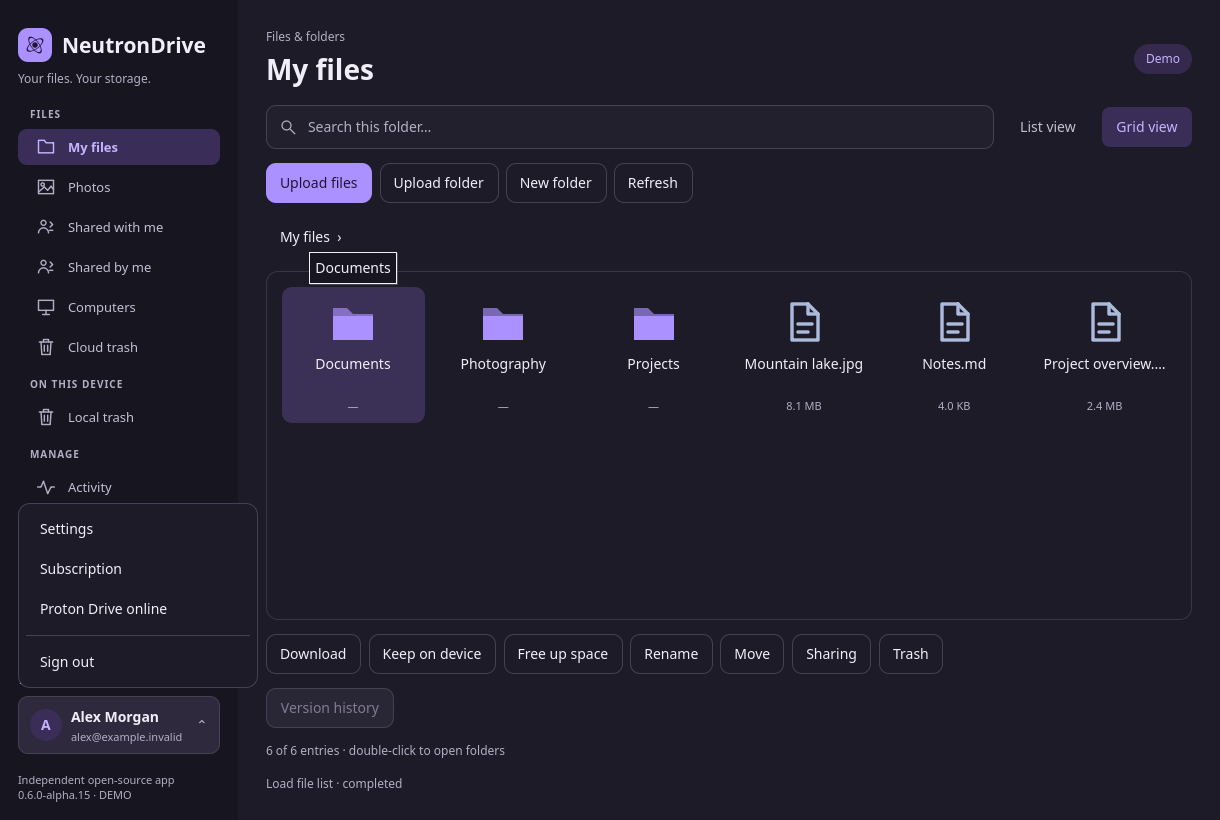
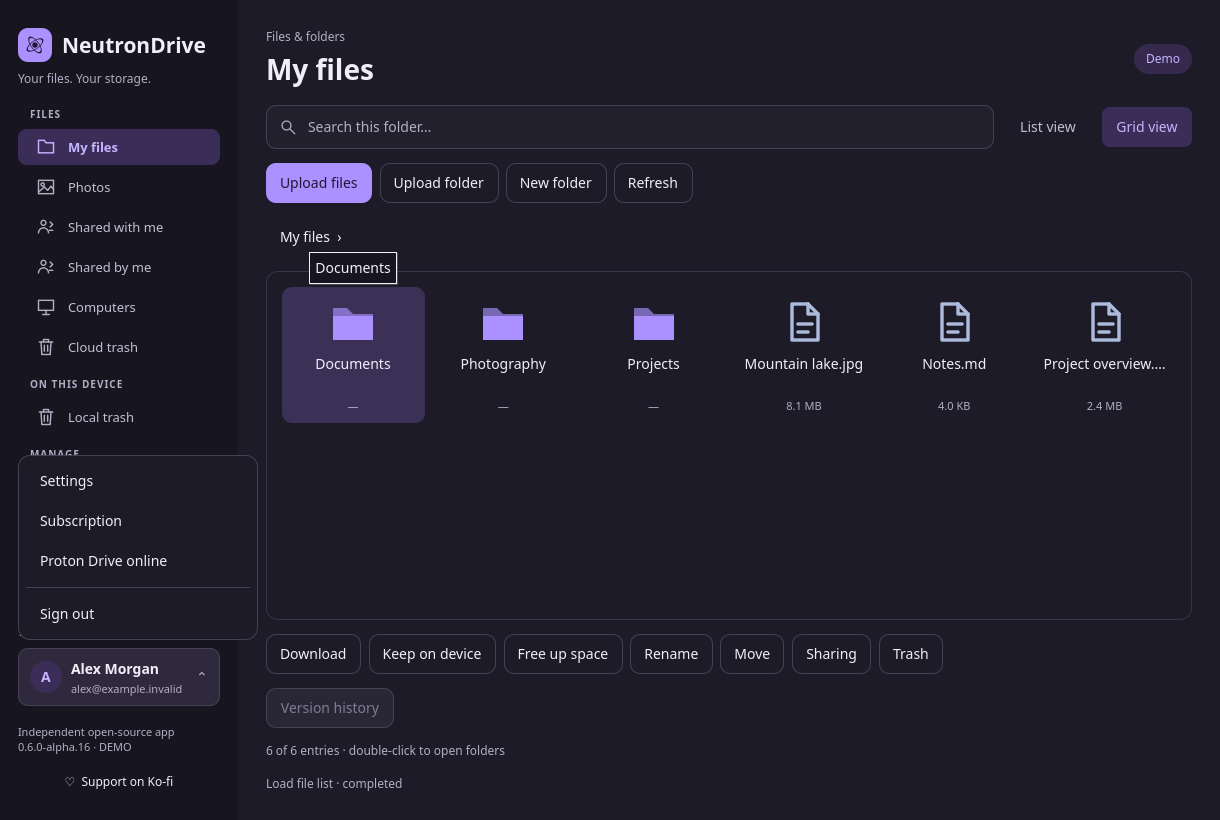
Pin alpha16 artifacts and refresh English release previews [skip ci]

Changed region(s): [[0.0, 0.7317, 0.1869, 0.9756], [0.0311, 0.5793, 0.1246, 0.7012]]

diff --git a/docs/TAKEOUT-IMPORT.md b/docs/TAKEOUT-IMPORT.md
@@ -1,0 +1,52 @@
+# Import Google Photos from Takeout
+
+NeutronDrive alpha16 can upload photos and videos from an **extracted Google
+Takeout export** into Proton Photos. It keeps original media bytes unchanged and
+uses matching Google JSON sidecars for capture time and location when available.
+
+## Prepare the export
+
+1. Export Google Photos using Google Takeout.
+2. Download **every archive part**. Extract ZIP/TGZ files yourself, combining their
+   folders into one export folder. Keep the JSON sidecars beside the media files.
+3. Keep the original export until you have checked the imported photos in Proton.
+   NeutronDrive does not delete source files.
+
+NeutronDrive does not extract archives. Symbolic links and special files are
+ignored. The scanner accepts common photo/video extensions; actual decoding,
+preview and upload support also depend on the Proton SDK.
+
+## Review and import
+
+1. Sign in to the intended Proton account.
+2. Open **Photos → Google Takeout import** and choose the extracted export folder.
+3. Review the media/video count, duplicate count, ignored files and metadata
+   warnings. Nothing is uploaded before you confirm.
+4. Confirm to upload into **Proton Photos**. Keep NeutronDrive running; closing to
+   the tray is fine. Refresh Photos afterward to see new uploads.
+
+The scanner reads the source files to calculate hashes, so scanning a large
+export can take time. Identical content within the export is grouped. Existing
+Proton Photos are checked by name/content through the SDK before upload; this is
+not a global duplicate finder for differently named copies.
+
+## Metadata and interruptions
+
+Exact JSON sidecar names are preferred, including `.supplemental-metadata.json`.
+A unique title match can associate truncated sidecar filenames. Missing or
+ambiguous JSON metadata falls back to the SDK's embedded metadata handling and
+is reported as a warning. Valid capture dates and GPS coordinates are imported;
+albums, comments, descriptions and edited/original relationships are not rebuilt.
+
+You can cancel the import. If a file fails, the batch stops and reports uploaded,
+skipped, failed and remaining counts. A changed source file or account also stops
+the operation. You can select the same export again; matching completed uploads
+are checked before another upload. There is no persistent import queue or automatic
+resume after quitting/restarting the app.
+
+For large exports, work in batches: the scanner limits a selection to 100,000
+unique media files, 500,000 directory entries and 64 directory levels. JSON limits
+are 1 MiB per file and 64 MiB per directory.
+
+The release includes synthetic importer and SDK contract tests. A real-account
+Takeout upload has not been validated for this release; verify a small batch first.

diff --git a/docs/VALIDATION.md b/docs/VALIDATION.md
@@ -1,5 +1,35 @@
 # Validation record
 
+## Alpha16 release validation (2026-10-25)
+
+The complete [source and Linux package run](https://github.com/SigmaCodez/NeutronDrive/actions/runs/40232633624)
+passed for source commit `32cd2d5bf33a0cfa048328334d5d8ed31c73023c`.
+It covers x86_64 and ARM64 native Rust/Qt/SDK builds, DEB installation on both
+architectures, Fedora/openSUSE RPM installation, strict Snap, Flatpak runtime,
+AppImage startup and Arch installation. Both RPM tests verify the distribution
+marker used by the new updater.
+
+Local checks additionally passed: 186 core unit tests, 18 existing integration
+tests, real private D-Bus/daemon process replacement tests, 83 desktop unit tests,
+Clippy/fmt, 23 SDK bridge tests and TypeScript checking, 348 retained regressions
+(18 environment-dependent skips), and actual Qt windows in all 25 languages plus
+English fallback. The synthetic Takeout upload tests check original video bytes,
+capture time, GPS, duplicates and account/source-hash guards. No real-account
+Takeout import or local privileged RPM upgrade was performed.
+
+The downloaded amd64 release DEB passed the isolated no-Python staged runtime
+check. Fresh English light/dark captures were made directly with its unmodified
+executable and bundled Qt; [GUI-PREVIEWS.json](GUI-PREVIEWS.json) records the package,
+binary and image hashes. The initial sandboxed local launch could not create its
+activation socket; rerunning the same test with local IPC access passed.
+
+Release metadata pins these exact original CI package/SDK bytes. A separate
+metadata verification run validates unchanged native/SDK source provenance and
+repeats package assembly/runtime checks; its rebuilt package bytes do not replace
+the checksum-pinned originals. The release's `BUILD_INFO.json` and `TEST_RESULTS.json`
+identify both runs and the final release commit.
+
+
 
 ## Post-alpha15 Takeout and UI validation (2026-10-25)
 

diff --git a/README.md b/README.md
@@ -54,6 +54,7 @@ account. [Capture version, timestamp and hashes](docs/GUI-PREVIEWS.json).
 [Photo viewer](docs/previews/development/light-photo-viewer.png) ·
 [Albums](docs/previews/albums-light.png) ·
 [Sync settings](docs/previews/background-light.png) ·
+[Computer setup](docs/previews/computers-light.png) ·
 [Computer backup](docs/previews/computer-backup-light.png) ·
 [Sharing window](docs/previews/sharing-light.png) ·
 [Online drive](docs/previews/online-drive-light.png) ·
@@ -79,6 +80,8 @@ also lets you choose System, Light or Dark manually. Theme changes apply immedia
   overlays, image viewer, albums and location links to OpenStreetMap. Incremental
   tiles preserve scroll position, retain nearby previews and load pages ahead;
   thumbnails are cached across sessions; first-time previews still depend on the network.
+- **Import Google Photos:** review an extracted Takeout export and upload photos/videos
+  with matching date/location metadata. [Import guide and limits](docs/TAKEOUT-IMPORT.md).
 - **Manage your account:** the lower-left user menu opens Settings, the Proton
   subscription dashboard, Proton Drive online and guarded sign-out.
 - **Share:** view incoming/outgoing shares, create public links and send confirmed

diff --git a/docs/COMPUTER-BACKUP.md b/docs/COMPUTER-BACKUP.md
@@ -1,6 +1,8 @@
 # Computer folder synchronization
 
-The **Computers → Computer backup** page registers a Linux device
+Open **Computers → Configure computer backup** in the **Back up this computer**
+card. The separate **Saved computers** list browses existing cloud devices.
+The configuration page registers a Linux device
 through the pinned official Proton SDK and adds selected local folders under
 **Computers** in Proton Drive. Device registration and all encryption use the
 SDK; no private API or reimplemented cryptography is involved.
